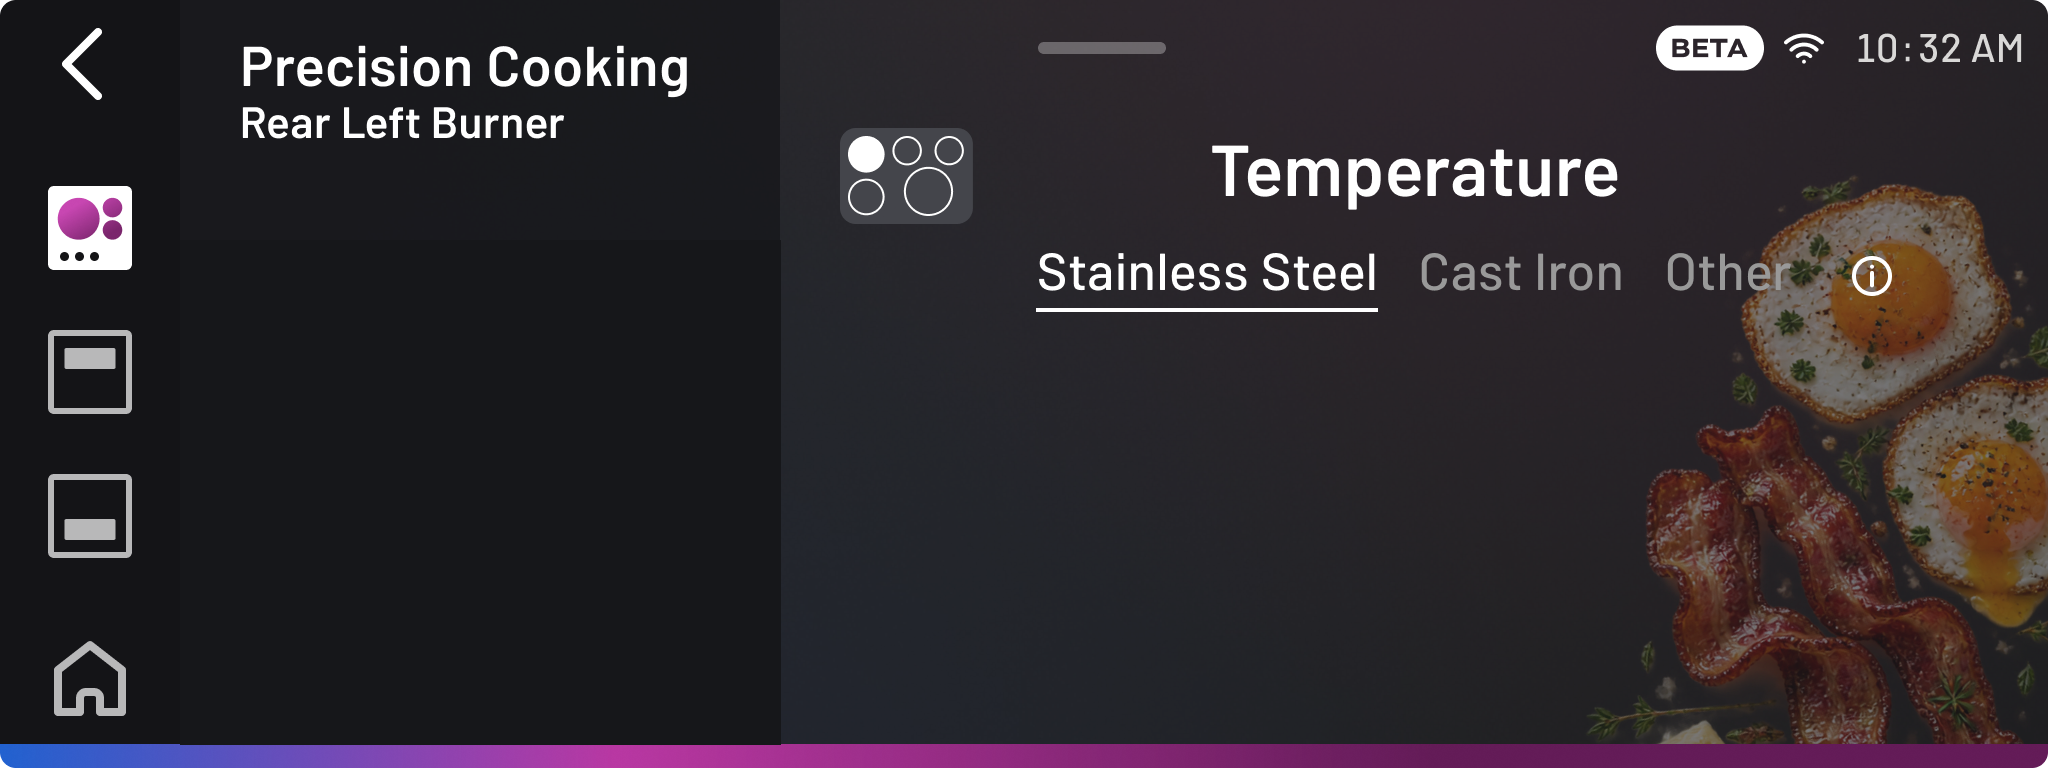
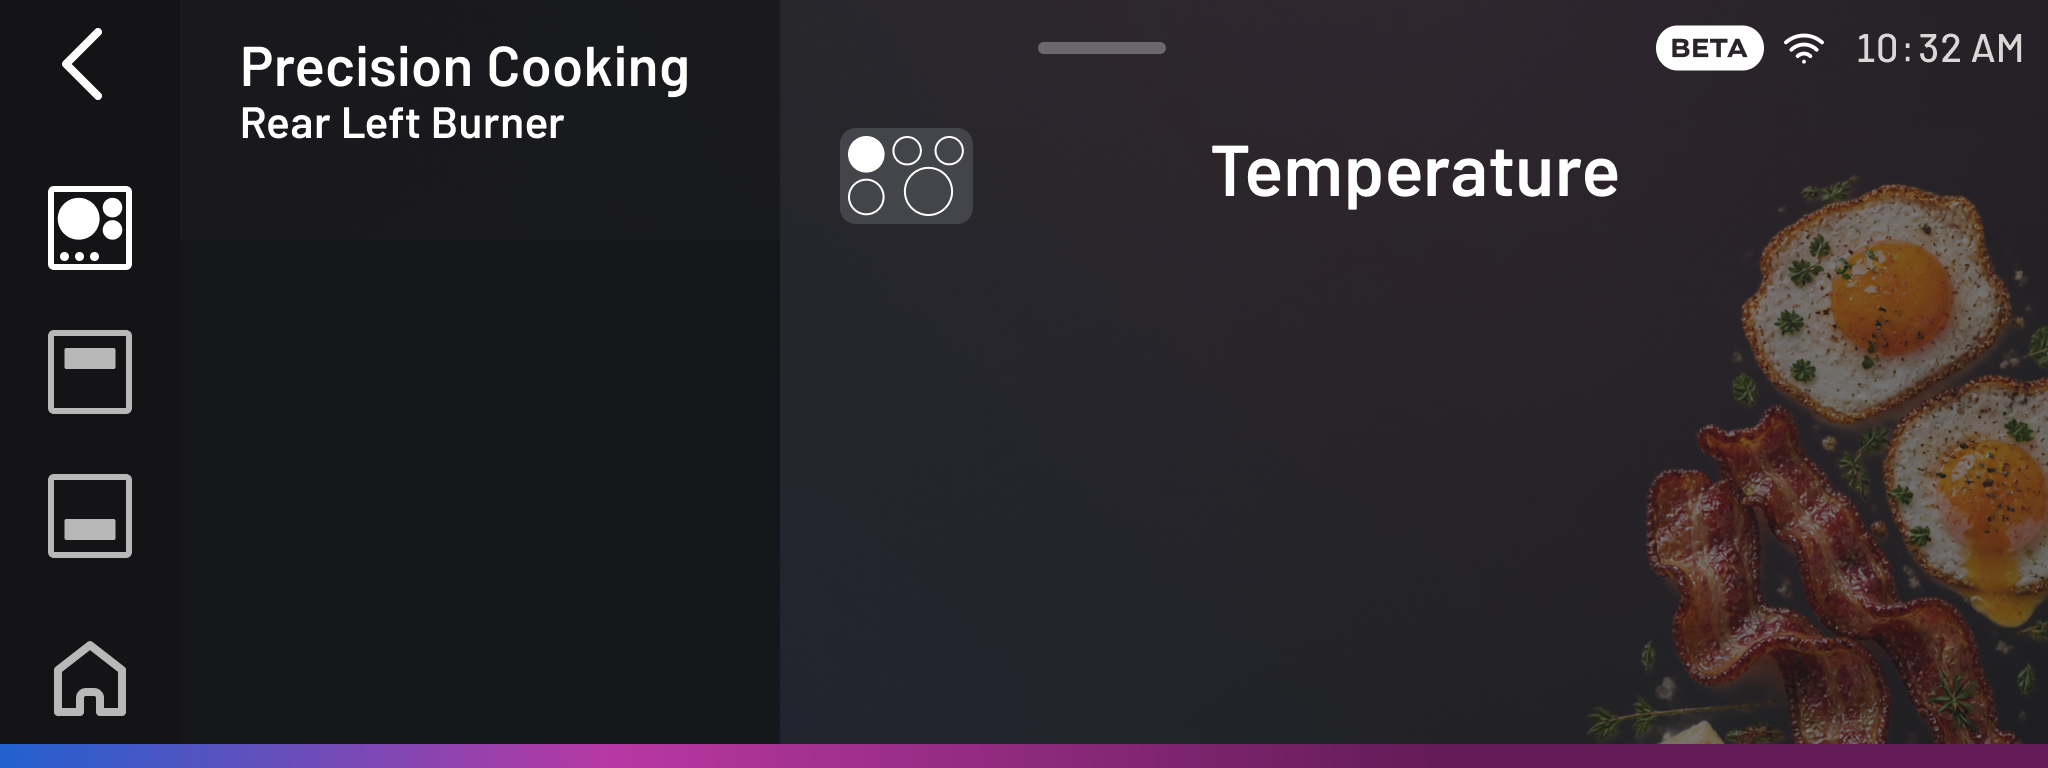
feat(task3): update 3B-temperature screen to new design with stainless edit button and repositioned picker

Changed region(s): [[0.5, 0.3125, 0.875, 0.4062], [0.0, 0.25, 0.0625, 0.3438], [0.9062, 0.3438, 0.9375, 0.375]]

diff --git a/index.html b/index.html
@@ -9,7 +9,7 @@
   <meta http-equiv="Pragma" content="no-cache">
   <meta http-equiv="Expires" content="0">
   <title>Polaris Cooktop Precision Cooking Prototype</title>
-  <link rel="stylesheet" href="./styles.css?v=20261106-recent-v1">
+  <link rel="stylesheet" href="./styles.css?v=20261116-temp-f3">
 </head>
 <body>
   <div class="test-environment">
@@ -661,7 +661,7 @@
 
             <!-- 4. SCREEN: 3B-PCTEMPERATURE (HORIZONTAL PICKER & START BUTTON - FIGMA 3198:27479) -->
             <div class="t3-screen" id="t3ScreenTemperature" hidden>
-              <img class="t3-screen-bg" src="./assets/task3-pc-bg-temperature.png?v=20261105-clean3" alt="Precision Cooking Temperature">
+              <img class="t3-screen-bg" src="./assets/task3-pc-bg-temperature.png?v=20261116-clean4" alt="Precision Cooking Temperature">
               <!-- Back button (< Precision Cooking) -->
               <button type="button" class="t3-back-btn" id="t3BtnBackFromTemp" aria-label="Back to Burners"></button>
 
@@ -673,13 +673,11 @@
                 <button type="button" class="pc-drawer-item" data-t3tab="recent" id="t3TabBtnRecentFromTemp">Recent Used</button>
               </nav>
 
-              <!-- Cookware Tabs (Stainless Steel / Cast Iron / Other / Info - Figma 3198:27479) -->
-              <div class="pc-cookware-tabs" id="t3CookwareTabs">
-                <button type="button" class="pc-cookware-tab is-active" data-cookware="stainless" aria-label="Stainless Steel"></button>
-                <button type="button" class="pc-cookware-tab" data-cookware="castiron" aria-label="Cast Iron"></button>
-                <button type="button" class="pc-cookware-tab" data-cookware="other" aria-label="Other"></button>
-                <button type="button" class="pc-cookware-info" id="t3CookwareInfo" aria-label="Cookware Info"></button>
-              </div>
+              <!-- Stainless Cookware Edit Button (Figma Node 3382:21184) -->
+              <button type="button" class="t3-cookware-edit-btn" id="t3BtnCookwareEdit" aria-label="Cookware Selection: Stainless">
+                <span class="t3-cookware-edit-label">Stainless</span>
+                <img class="t3-cookware-edit-icon" src="./assets/icon-pencil-edit.png" alt="" aria-hidden="true">
+              </button>
 
               <!-- Dynamic Horizontal Temperature Carousel (200°F - 500°F in 25° increments, centered at 375°F, 3 numbers on screen) -->
               <div class="t3-picker-wheel-container" id="t3PickerWheelContainer">
@@ -1618,6 +1616,6 @@
     </footer>
   </div>
 
-  <script src="./app.js?v=20261106-recent-v1"></script>
+  <script src="./app.js?v=20261116-temp-f3"></script>
 </body>
 </html>

diff --git a/styles.css b/styles.css
@@ -3064,6 +3064,12 @@ input,
   overflow: hidden;
 }
 
+#t3ScreenTemperature .t3-picker-wheel-container,
+#t3PickerWheelContainer {
+  left: 461px;
+  top: 143px;
+}
+
 .t3-picker-track {
   display: flex;
   align-items: center;
@@ -3151,20 +3157,20 @@ input,
 /* Start Button on Temperature Screen (Figma node 3198:27479 - aligned with active temperature digits) */
 .t3-temp-start-btn {
   position: absolute;
-  left: 530px;
+  left: 640px;
   top: 288px;
   width: 127px;
   height: 48px;
-  background: #ffffff;
-  color: #16171a;
+  background: #f4f4f2;
+  color: #1f2024;
   border: none;
   cursor: pointer;
   outline: none;
-  border-radius: 24px;
+  border-radius: 999px;
   font-family: var(--roux-typography-subtitle-small-font-family);
-  font-size: 19px;
-  font-weight: 700;
-  letter-spacing: 0.5px;
+  font-size: 26px;
+  font-weight: 600;
+  letter-spacing: 0.52px;
   display: flex;
   align-items: center;
   justify-content: center;
@@ -3175,6 +3181,47 @@ input,
 .t3-temp-start-btn:active {
   transform: scale(0.95);
   background-color: #e5e5e5;
+}
+
+/* Stainless Cookware Edit Button on Temperature Screen (Figma node 3382:21184) */
+.t3-cookware-edit-btn {
+  position: absolute;
+  left: 420px;
+  top: 296px;
+  width: 162px;
+  height: 32px;
+  background: rgba(75, 76, 82, 0.8);
+  border: none;
+  cursor: pointer;
+  outline: none;
+  border-radius: 999px;
+  display: flex;
+  align-items: center;
+  justify-content: center;
+  gap: 8px;
+  padding: 0 12px;
+  box-sizing: border-box;
+  z-index: 55;
+  transition: transform 0.12s ease, background-color 0.15s ease;
+  -webkit-tap-highlight-color: transparent;
+}
+.t3-cookware-edit-btn:active {
+  transform: scale(0.96);
+  background: rgba(90, 92, 98, 0.9);
+}
+.t3-cookware-edit-label {
+  font-family: var(--roux-typography-subtitle-small-font-family);
+  font-size: 22px;
+  font-weight: 500;
+  line-height: 1;
+  color: #ffffff;
+  letter-spacing: 0.52px;
+}
+.t3-cookware-edit-icon {
+  width: 18px;
+  height: 18px;
+  display: block;
+  object-fit: contain;
 }
 
 /* Keypad Button on Temperature Screen (Figma node 3017:25518) */

diff --git a/app.js b/app.js
@@ -302,6 +302,7 @@
     t3PickerWheelContainer: document.getElementById("t3PickerWheelContainer"),
     t3PickerTrack: document.getElementById("t3PickerTrack"),
     t3BtnStartTemp: document.getElementById("t3BtnStartTemp"),
+    t3BtnCookwareEdit: document.getElementById("t3BtnCookwareEdit"),
     t3BtnKeypadFromTemp: document.getElementById("t3BtnKeypadFromTemp"),
 
     // Task 3B: Digital Keypad Screen (Figma 3017:25641)
@@ -2425,7 +2426,7 @@
       temperature: {
         stage: "temperature",
         screen: els.t3ScreenTemperature,
-        getContent: () => [els.t3PickerWheelContainer, els.t3BtnStartTemp, els.t3BtnKeypadFromTemp].filter(Boolean),
+        getContent: () => [els.t3PickerWheelContainer, els.t3BtnCookwareEdit, els.t3BtnStartTemp, els.t3BtnKeypadFromTemp].filter(Boolean),
         onInit: () => {
           scrollToT3Temp(state.task3TargetTemp || 375, false);
         }
@@ -3843,6 +3844,18 @@
       };
       els.t3BtnStartTemp.addEventListener("click", handleStart);
       els.t3BtnStartTemp.addEventListener("touchstart", handleStart, { passive: false });
+    }
+
+    // Cookware Edit button on Temperature Screen (Figma 3382:21184)
+    if (els.t3BtnCookwareEdit) {
+      els.t3BtnCookwareEdit.addEventListener("click", (e) => {
+        e.stopPropagation();
+        playSound("touch");
+      });
+      els.t3BtnCookwareEdit.addEventListener("touchstart", (e) => {
+        e.stopPropagation();
+        playSound("touch");
+      }, { passive: true });
     }
 
     // 10s Preheat Complete Toast Buttons (Figma 3051:42525)
